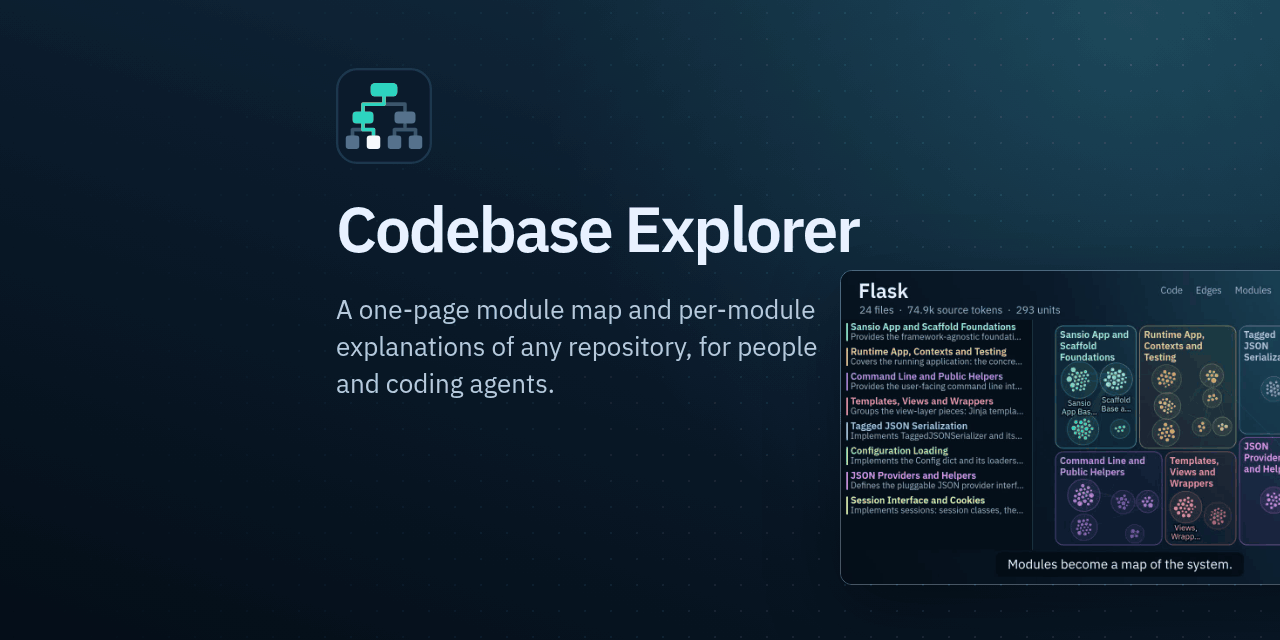
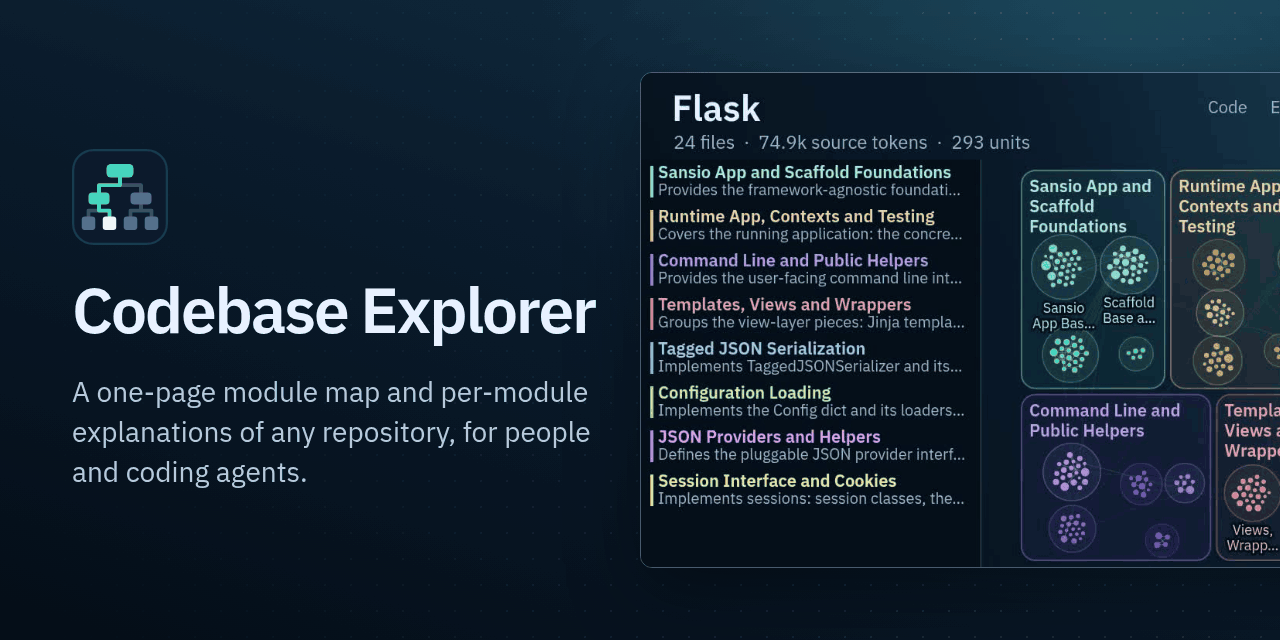
Rebalance the social preview layout
Left-align and vertically center the project copy, give the system frame a larger right-hand presence, and crop out its film subtitle.

diff --git a/showcase/social.html b/showcase/social.html
@@ -37,7 +37,7 @@
     background-size: 26px 26px;
     mask-image: linear-gradient(90deg, transparent, #000 75%);
   }
-  .copy { position: absolute; left: 336px; top: 68px; z-index: 2; width: 500px; }
+  .copy { position: absolute; left: 72px; top: 149px; z-index: 2; width: 528px; }
   .logo { display: block; width: 96px; height: 96px; margin-bottom: 30px; }
   h1 {
     margin: 0 0 28px;
@@ -48,14 +48,14 @@
     letter-spacing: -2.2px;
     white-space: nowrap;
   }
-  p { margin: 0; color: #b7c9db; font-size: 26px; line-height: 1.42; white-space: nowrap; }
+  p { margin: 0; color: #b7c9db; font-size: 28px; line-height: 1.42; white-space: nowrap; }
   .frame {
     position: absolute;
     z-index: 1;
-    left: 840px;
-    top: 270px;
-    width: 560px;
-    height: 315px;
+    left: 640px;
+    top: 72px;
+    width: 992px;
+    height: 496px;
     object-fit: cover;
     border: 1px solid rgba(159, 182, 204, .42);
     border-radius: 12px;
